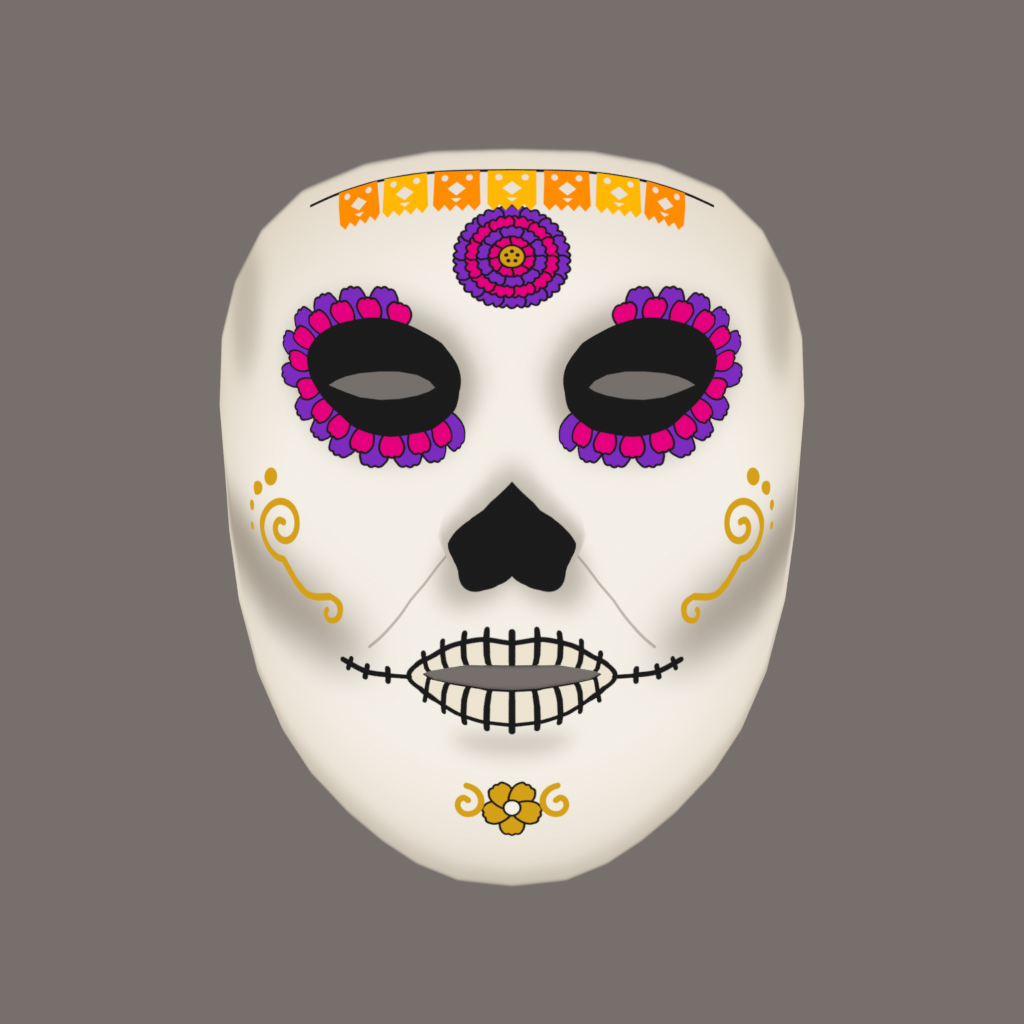
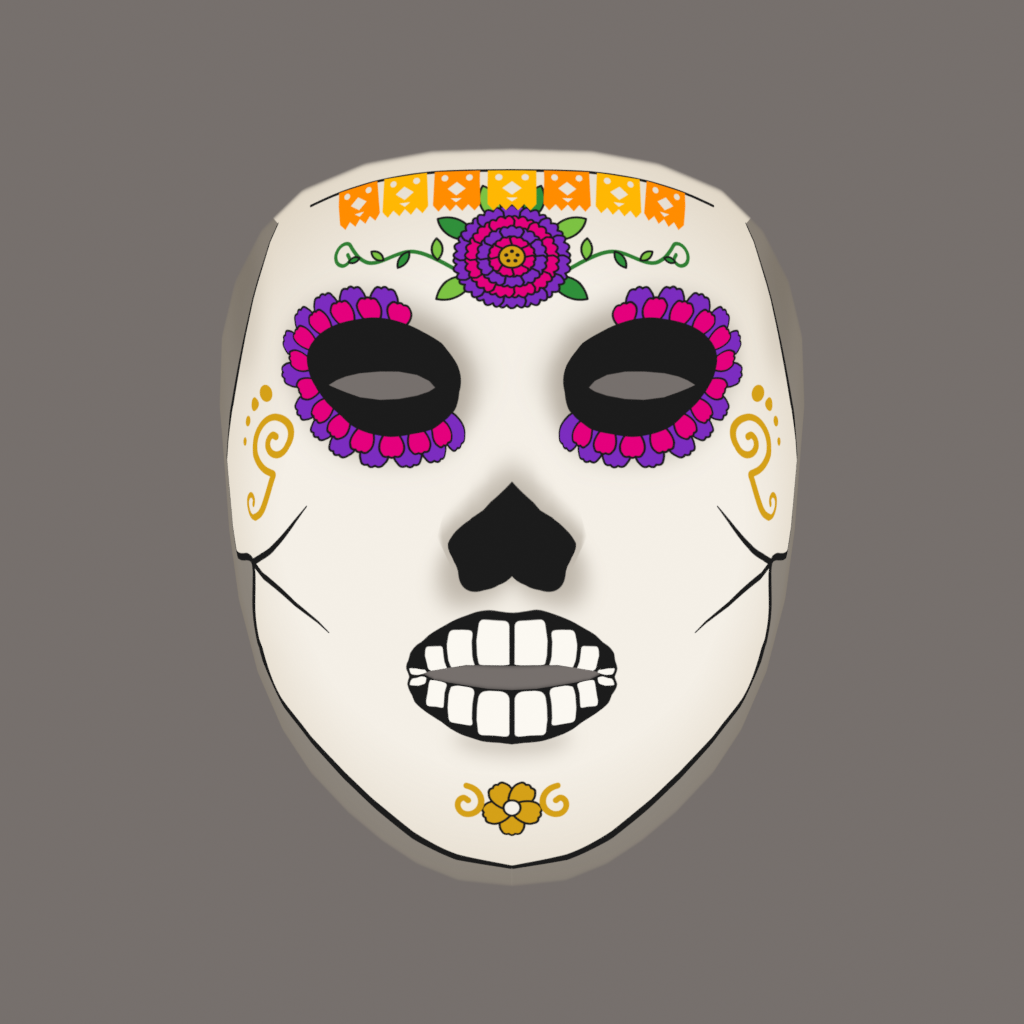
Diseño: estructura de cráneo (silueta, pómulos, mandíbula y dientes)
- Capa "craneo": silueta con pómulo saliente, muesca a la altura de la base
  de la nariz y mandíbula más angosta que la cara; lo que queda fuera del
  cráneo se oscurece. Líneas del cigomático y del maxilar con trazo que se
  adelgaza. Todo anclado al óvalo, la cuenca, la ceja, la nariz y la boca, y
  metido hacia el centro para que se lea de frente.
- Boca: dos filas de dientes redondeados (arriba en el labio superior, abajo en
  el inferior) sobre una encía negra.
- Frente: hojas detrás de la flor y enredaderas hacia las sienes.
- Volutas de las mejillas sobre el pómulo.

Changed region(s): [[0.1875, 0.2188, 0.8125, 0.875], [0.3125, 0.1875, 0.6875, 0.3125]]

diff --git a/tools/03_generate_svg.py b/tools/03_generate_svg.py
@@ -14,7 +14,7 @@ Simetría: los elementos se construyen con los landmarks del lado DERECHO de la 
 el lado izquierdo usa sus pares reflejados (Face.mirror).
 
 Capas (grupos con nombre, editables en Inkscape / Figma / Illustrator):
-    base, huesos (sombreado de cráneo), frente, mejillas, menton, nariz, boca, ojos, transparencias, referencia
+    base, huesos (sombreado), craneo (silueta y líneas óseas), frente, mejillas, menton, nariz, boca, ojos, transparencias, referencia
 `transparencias` marca en magenta los huecos exactos de ojos y boca: 04_rasterize.py los
 recorta del alfa. `referencia` (oculta) muestra la guía UV para retocar a mano.
 """
@@ -37,7 +37,10 @@ INK = "#1b1b1b"
 HOLE = "#ff00ff"  # marcador de la capa transparencias (no es color de la textura)
 BONE_EDGE = "#dcd1bf"   # hueso hacia los bordes (degradado de la base)
 SHADOW = "#7d7264"      # sombras de la capa huesos
-TOOTH = "#ece3d0"       # dientes
+TOOTH = "#fbf8f1"       # dientes (más claros que el hueso para que destaquen)
+HOLLOW = "#2b2520"      # hundimiento fuera de la mandíbula
+LEAF = ("#2f8f3a", "#7cc242")   # hojas (oscura, clara)
+VINE = "#2f7d32"
 
 PALETTES = {
     "calavera": {
@@ -63,14 +66,20 @@ PICADO = {"inset": 0.20, "cut": 0.42, "width": 0.36, "height": 0.34, "gap": 0.06
           "string": 0.022}
 MOUTH = {"line": 0.045, "teeth": 9, "tooth_ext": 0.13, "ext_len": 0.55, "ext_rise": 0.10,
          "ext_ticks": 3, "teeth_ext": 0.07}
-CHEEK = {"out": 0.32, "spiral": 0.27, "turns": 1.55, "stroke": 0.058, "dot": 0.072}
+CHEEK = {"out": 0.68, "spiral": 0.27, "turns": 1.55, "stroke": 0.058, "dot": 0.072}
 CHIN = {"at": 0.47, "petal": 0.22, "curl": 0.14, "stroke": 0.048}
 NOSE = {"width": 0.92, "drop": 0.04}
 # Sombreado óseo: (desenfoque en EW, opacidad). "teeth": dientes color hueso sobre los
 # labios (más calavera); False = labios oscuros.
-BONES = {"orbit": 0.16, "orbit_shade": (0.10, 0.55), "hollow_shade": (0.16, 0.65), "hollow_width": 0.30,
-         "temple_shade": (0.12, 0.30), "nose_shade": (0.07, 0.45), "jaw_shade": (0.12, 0.28),
-         "chin_shade": (0.07, 0.28), "line": 0.022, "line_opacity": 0.45, "teeth": True}
+BONES = {"orbit": 0.16, "orbit_shade": (0.10, 0.55), "temple_shade": (0.12, 0.15),
+         "nose_shade": (0.07, 0.45), "chin_shade": (0.07, 0.28), "teeth": True}
+# Estructura del cráneo (en EW): silueta con pómulo saliente, muesca y mandíbula más
+# angosta que la cara; "*_in" = cuánto entra la silueta desde el contorno de la cara.
+SKULL = {"outline": (0.01, 0.065, 0.05), "temple_in": 0.55, "cheek_in": 0.62, "jaw_in": 1.05,
+         "chin_in": 0.30, "hollow_opacity": 0.5, "line": (0.055, 0.008),
+         "zygo_len": 0.55, "maxilla_len": 0.62}
+TEETH = {"count": 8, "ext": 0.16, "gap": 0.035}
+VINES = {"leaves": 0.75, "leaf_w": 0.32, "stroke": 0.03}
 
 
 # ---------- Geometría ----------
@@ -179,6 +188,29 @@ def ruffled_ring_petal(r0, r1, half_angle):
     return "".join(d)
 
 
+def leaf_d(length, width):
+    """Hoja apuntando a +x con la base en el origen."""
+    L, W = length, width
+    return (f"M0,0C{0.30 * L:.1f},{-W:.1f} {0.72 * L:.1f},{-0.9 * W:.1f} {L:.1f},0"
+            f"C{0.72 * L:.1f},{0.9 * W:.1f} {0.30 * L:.1f},{W:.1f} 0,0Z")
+
+
+def profile(n, w0, wm, w1):
+    """Anchos a lo largo de un trazo: w0 al inicio, wm a la mitad, w1 al final."""
+    t = np.linspace(0, 1, n)
+    return w0 + (w1 - w0) * t + (wm - (w0 + w1) / 2) * 4 * t * (1 - t)
+
+
+def tapered_d(pts, widths):
+    """Trazo relleno de ancho variable (como pincel): se adelgaza donde `widths` es chico."""
+    P = np.asarray(pts, float)
+    w = np.asarray(widths, float)[:, None] / 2
+    t = np.gradient(P, axis=0)
+    t /= np.linalg.norm(t, axis=1, keepdims=True)
+    perp = np.stack([-t[:, 1], t[:, 0]], axis=1)
+    return bezier_d(np.vstack([P + perp * w, (P - perp * w)[::-1]]))
+
+
 def spiral_pts(center, r0, r1, a0, turns, sx, n=90):
     """Espiral de Arquímedes; sx = -1 la refleja para el lado opuesto."""
     s = np.linspace(0, 1, n)
@@ -264,6 +296,8 @@ class Design:
 
         P = face.px
         self.oval = catmull(P(face.oval), True, 16)
+        self.cx = float(P(face.nose_bridge)[:, 0].mean())   # eje de simetría
+        self._skull = {}
         lips = P(face.lips_outer)
         self.mouth_corner = {
             "right": face.lips_outer[int(lips[:, 0].argmin())],
@@ -274,6 +308,7 @@ class Design:
         svg = Svg()
         self.base(svg)
         self.bones(svg)
+        self.skull(svg)
         self.forehead(svg, pal)
         for side in self.sides:
             self.cheek(svg, pal, side)
@@ -326,49 +361,99 @@ class Design:
             return (f"M{c[0] - rx:.1f},{c[1]:.1f}a{rx:.1f},{ry:.1f} 0 1,0 {2 * rx:.1f},0"
                     f"a{rx:.1f},{ry:.1f} 0 1,0 {-2 * rx:.1f},0Z")
 
-        nos = P(face.nostrils)
         lips = P(face.lips_outer)
         for side in self.sides:
-            sx, n = side.sx, side.name
-            ex = np.array([sx * EW, 0.0])   # "hacia afuera" de ese lado
+            n = side.name
             ey = np.array([0.0, EW])        # hacia abajo
             sock = self.socket(side)
             # Órbita: sombra alrededor de la cuenca.
             shade(bezier_d(resample(sock + normals(sock) * B["orbit"] * EW, 32)), "orbit_shade", f"orbita-{n}")
-
-            # Pómulo: hundimiento bajo el arco cigomático, una banda diagonal difusa que baja
-            # desde cerca de la oreja hacia la comisura.
-            mouth = side.P(self.mouth_corner["right"])
-            below = sock[np.argmax(sx * sock[:, 0] + sock[:, 1])]       # abajo y afuera de la cuenca
-            ear = self.oval_at(side, lerp(below[1], mouth[1], 0.35)) - 0.15 * ex
-            near_mouth = mouth + 0.35 * ex - 0.10 * ey
-            c, axis = lerp(ear, near_mouth, 0.5), near_mouth - ear
-            half = np.linalg.norm(axis) / 2
-            blur, opacity = B["hollow_shade"]
-            svg.path("huesos", ellipse_d((0, 0), half, B["hollow_width"] * EW), fill=SHADOW,
-                     extra=f'id="pomulo-{n}" opacity="{opacity}" filter="url(#{svg.blur(blur * EW)})" '
-                           f'transform="{place(*c, math.atan2(axis[1], axis[0]))}"')
 
             # Sien: hundimiento junto al extremo de la ceja.
             brow_out = side.P(face.brow_upper["right"])[-1]
             c = lerp(brow_out, self.oval_at(side, brow_out[1]), 0.55) - 0.1 * ey
             shade(ellipse_d(c, 0.30 * EW, 0.55 * EW), "temple_shade", f"sien-{n}")
 
-            # Maxilar: de la aleta de la nariz hacia la comisura.
-            wing = nos[np.argmax(sx * nos[:, 0])]
-            line([wing + 0.06 * ex + 0.04 * ey, lerp(wing, mouth, 0.55) + 0.22 * ex,
-                  mouth + 0.30 * ex - 0.22 * ey], f"maxilar-{n}")
-
         # Cavidad nasal: sombra alrededor del corazón.
         shade(self.heart_d(1.3), "nose_shade", "cavidad-nasal")
-        # Mandíbula: banda a lo largo del óvalo, por debajo de la boca.
-        jaw = self.oval_arc(self.oval[:, 1] > lips[:, 1].mean())
-        blur, opacity = B["jaw_shade"]
-        svg.path("huesos", bezier_d(resample(jaw, 20, closed=False), closed=False), stroke=SHADOW,
-                 width=0.45 * EW, extra=f'id="mandibula" opacity="{opacity}" filter="url(#{svg.blur(blur * EW)})"')
         # Mentón: sombra bajo el labio inferior.
         c = np.array([lips[:, 0].mean(), lips[:, 1].max() + 0.20 * EW])
         shade(ellipse_d(c, 0.45 * EW, 0.12 * EW), "chin_shade", "menton-sombra")
+
+    # cráneo: silueta con pómulo saliente, muesca y mandíbula más angosta, hundimiento fuera
+    # de la mandíbula y líneas del cigomático y del maxilar
+    def skull_points(self, side):
+        """Puntos clave de la silueta de ese lado (px), anclados al óvalo, la cuenca, la
+        ceja, la nariz y la boca."""
+        if side.name in self._skull:
+            return self._skull[side.name]
+        face, EW, K = self.face, self.EW, SKULL
+        P = face.px
+        sx = side.sx
+        on = normals(self.oval)                                   # hacia afuera de la cara
+        mine = (self.oval[:, 0] - self.cx) * sx >= -1
+
+        def inset_at(y, d):
+            i = np.where(mine)[0][np.argmin(np.abs(self.oval[mine, 1] - y))]
+            return self.oval[i] - on[i] * d * EW
+
+        sock = self.socket(side)
+        brow_out = side.P(face.brow_upper["right"])[-1]
+        y_notch = P(face.nostrils)[:, 1].max() + 0.05 * EW        # muesca a la altura de la base de la nariz
+        top = inset_at(lerp(self.oval[:, 1].min(), brow_out[1], 0.35), 0.12)   # arranca pegada al borde
+        temple = inset_at(brow_out[1], K["temple_in"])
+        cheek = inset_at(sock[:, 1].max() + 0.25 * EW, K["cheek_in"])
+        cheek_low = inset_at(y_notch - 0.18 * EW, K["cheek_in"])
+
+        # Mandíbula: el óvalo hacia adentro, de jaw_in en la muesca a chin_in en el mentón.
+        idx = np.where(mine & (self.oval[:, 1] >= y_notch))[0]
+        idx = idx[np.argsort(self.oval[idx, 1])]
+        y_bot = self.oval[:, 1].max()
+        t = (self.oval[idx, 1] - y_notch) / (y_bot - y_notch)
+        inset = (K["jaw_in"] + (K["chin_in"] - K["jaw_in"]) * t ** 0.6) * EW
+        jaw = self.oval[idx] - on[idx] * inset[:, None]
+        jaw = np.vstack([resample(jaw, 8, closed=False), [[self.cx, y_bot - K["chin_in"] * EW]]])
+
+        outline = resample(catmull(np.vstack([[top, temple, cheek, cheek_low], jaw]), False, 10), 80, closed=False)
+        notch = jaw[0]
+        mouth = side.P(self.mouth_corner["right"])
+        under_eye = sock[np.argmax(sock[:, 1])] + np.array([0.0, 0.15 * EW])
+        self._skull[side.name] = pts = {
+            "outline": outline, "notch": notch, "cheek": cheek, "cheek_low": cheek_low,
+            "under_eye": under_eye, "mouth": mouth, "y_notch": y_notch,
+        }
+        return pts
+
+    def skull(self, svg):
+        EW, K = self.EW, SKULL
+        for side in self.sides:
+            sx, n = side.sx, side.name
+            S = self.skull_points(side)
+            outline = S["outline"]
+
+            # Fuera del cráneo: entre la silueta y el borde de la cara (hasta fuera de la isla).
+            inner = outline
+            mine = ((self.oval[:, 0] - self.cx) * sx >= -1) & (self.oval[:, 1] >= outline[0, 1])
+            outer = self.oval[mine]
+            outer = outer[np.argsort(outer[:, 1])] + normals(self.oval)[mine][np.argsort(outer[:, 1])] * 0.3 * EW
+            svg.path("craneo", poly_d(np.vstack([inner, outer[::-1]])), fill=HOLLOW,
+                     extra=f'id="hundimiento-{n}" opacity="{K["hollow_opacity"]}"')
+
+            w0, wm, w1 = K["outline"]
+            svg.path("craneo", tapered_d(outline, profile(len(outline), w0 * EW, wm * EW, w1 * EW)),
+                     fill=INK, extra=f'id="silueta-{n}"')
+
+            # Cigomático: de la muesca hacia abajo del ojo. Maxilar: de la muesca a la comisura.
+            a, b = K["line"]
+            for name, target, frac, bend in (
+                    ("cigomatico", S["under_eye"], K["zygo_len"], np.array([0.0, 0.10 * EW])),
+                    ("maxilar", S["mouth"] + np.array([sx * 0.08 * EW, 0.0]), K["maxilla_len"],
+                     np.array([sx * 0.06 * EW, -0.06 * EW]))):
+                end = lerp(S["notch"], target, frac)
+                curve = resample(catmull([S["notch"], lerp(S["notch"], end, 0.5) + bend, end], False, 16),
+                                 30, closed=False)
+                svg.path("craneo", tapered_d(curve, profile(30, a * EW, a * 0.8 * EW, b * EW)),
+                         fill=INK, extra=f'id="{name}-{n}"')
 
     # ojos: cuenca negra que sigue el contorno del ojo + anillo de pétalos
     def socket(self, side):
@@ -439,13 +524,9 @@ class Design:
         face, EW = self.face, self.EW
         P = face.px
         outer = P(face.lips_outer)
-        teeth_style = BONES["teeth"]
-        if teeth_style:
-            svg.path("boca", bezier_d(outer), fill=TOOTH, stroke=INK, width=0.035 * EW, extra='id="dientes-base"')
-            # Línea de la mordida: contorno interior de los labios.
-            svg.path("boca", bezier_d(P(face.lips_inner)), stroke=INK, width=0.04 * EW, extra='id="mordida"')
-        else:
-            svg.path("boca", bezier_d(outer), fill=INK, extra='id="labios"')
+        if BONES["teeth"]:
+            return self.teeth(svg)
+        svg.path("boca", bezier_d(outer), fill=INK, extra='id="labios"')
 
         # Contorno exterior partido en labio superior e inferior (de comisura a comisura).
         loop = list(face.lips_outer)
@@ -456,7 +537,7 @@ class Design:
         upper, lower = upper[np.argsort(upper[:, 0])], lower[np.argsort(lower[:, 0])]
         x0, x1 = outer[:, 0].min(), outer[:, 0].max()
         width = MOUTH["line"] * EW
-        ext = (MOUTH["teeth_ext"] if teeth_style else MOUTH["tooth_ext"]) * EW
+        ext = MOUTH["tooth_ext"] * EW
         teeth = []
         for t in np.linspace(0, 1, MOUTH["teeth"] + 2)[1:-1]:
             x = x0 + (x1 - x0) * t
@@ -482,6 +563,63 @@ class Design:
                 teeth.append(f"M{f(p + n * h)}L{f(p - n * h)}")
         svg.path("boca", "".join(teeth), stroke=INK, width=width, extra='id="dientes"')
 
+    def lip_curves(self, loop):
+        """Parte un contorno de labios en mitad superior e inferior, ordenadas por x."""
+        P = self.face.px
+        pts = P(loop)
+        i0, i1 = int(pts[:, 0].argmin()), int(pts[:, 0].argmax())
+        lo, hi = sorted((i0, i1))
+        a = pts[lo:hi + 1]
+        b = np.vstack([pts[hi:], pts[:lo + 1]])
+        upper, lower = (a, b) if a[:, 1].mean() < b[:, 1].mean() else (b, a)
+        return upper[np.argsort(upper[:, 0])], lower[np.argsort(lower[:, 0])]
+
+    def teeth(self, svg):
+        """Dos filas de dientes: los de arriba van del labio superior a la mordida y los de
+        abajo de la mordida al labio inferior, así se separan al abrir la boca."""
+        face, EW, T = self.face, self.EW, TEETH
+        up_o, lo_o = self.lip_curves(face.lips_outer)
+        up_i, lo_i = self.lip_curves(face.lips_inner)
+        x0, x1 = up_o[0, 0], up_o[-1, 0]
+        ext, gap = T["ext"] * EW, T["gap"] * EW
+
+        def at(curve, x):
+            return np.interp(x, curve[:, 0], curve[:, 1])
+
+        def top(x):      # borde superior de los dientes de arriba (sobre el labio)
+            return at(up_o, x) - ext * (1 - 0.5 * ((x - (x0 + x1) / 2) / ((x1 - x0) / 2)) ** 2)
+
+        def bottom(x):   # borde inferior de los dientes de abajo
+            return at(lo_o, x) + ext * (1 - 0.5 * ((x - (x0 + x1) / 2) / ((x1 - x0) / 2)) ** 2)
+
+        xs = np.linspace(x0, x1, 40)
+        back = np.vstack([np.stack([xs, top(xs) - gap], 1), np.stack([xs[::-1], bottom(xs[::-1]) + gap], 1)])
+        svg.path("boca", bezier_d(resample(back, 48)), fill=INK, extra='id="encias"')
+
+        # Anchos: más grandes al centro, más chicos hacia las comisuras.
+        k = (np.arange(T["count"]) + 0.5) / T["count"]
+        w = 1 - 0.45 * np.abs(2 * k - 1)
+        edges = x0 + (x1 - x0) * np.concatenate([[0], np.cumsum(w) / w.sum()])
+        def tooth(xa, xb, ya, yb, round_out):
+            """Diente entre xa..xb; ya = borde hacia el labio, yb = borde de la mordida."""
+            w, h = xb - xa, abs(yb - ya)
+            r = min(0.35 * w, 0.4 * h)
+            ro = r if round_out else r * 0.5      # el borde de la encía, menos redondeado
+            sy = 1 if yb > ya else -1             # de arriba hacia abajo o al revés
+            return (f"M{xa:.1f},{ya + sy * ro:.1f}Q{xa:.1f},{ya:.1f} {xa + ro:.1f},{ya:.1f}"
+                    f"L{xb - ro:.1f},{ya:.1f}Q{xb:.1f},{ya:.1f} {xb:.1f},{ya + sy * ro:.1f}"
+                    f"L{xb:.1f},{yb - sy * r:.1f}Q{xb:.1f},{yb:.1f} {xb - r:.1f},{yb:.1f}"
+                    f"L{xa + r:.1f},{yb:.1f}Q{xa:.1f},{yb:.1f} {xa:.1f},{yb - sy * r:.1f}Z")
+
+        teeth = []
+        for xa, xb in zip(edges[:-1], edges[1:]):
+            xa, xb = xa + gap / 2, xb - gap / 2
+            xm = np.array([xa, (xa + xb) / 2, xb])
+            # Arriba: del labio superior a la mordida; abajo: de la mordida al labio inferior.
+            teeth.append(tooth(xa, xb, top(xm).max() + gap / 2, at(up_i, xm).min() - gap / 2, False))
+            teeth.append(tooth(xa, xb, bottom(xm).min() - gap / 2, at(lo_i, xm).max() + gap / 2, False))
+        svg.path("boca", "".join(teeth), fill=TOOTH, extra='id="dientes"')
+
     # frente: flor de cempasúchil al centro y papel picado arriba
     def forehead(self, svg, pal):
         face, EW = self.face, self.EW
@@ -490,8 +628,37 @@ class Design:
         oval_top = self.oval[:, 1].min()
         cx = P(face.nose_bridge)[:, 0].mean()
         cy = lerp(brow_top, oval_top, FLOWER["rise"])
+        self.vines(svg, (cx, float(cy)), FLOWER["radius"] * EW)
         self.marigold(svg, "frente", pal, (cx, float(cy)), FLOWER["radius"] * EW, "flor-frente")
         self.papel_picado(svg, pal, oval_top, brow_top)
+
+    def vines(self, svg, c, R):
+        """Hojas detrás de la flor y una enredadera hacia cada sien, con hojas y un rizo."""
+        EW, V = self.EW, VINES
+        c = np.asarray(c, float)
+        g = [f'<g id="hojas-frente" stroke="{INK}" stroke-width="{OUTLINE * EW:.1f}" stroke-linejoin="round">']
+        for j, deg in enumerate((-150, -110, -70, -30, 30, 150)):
+            a = math.radians(deg)
+            base = c + 0.75 * R * np.array([math.cos(a), math.sin(a)])
+            g.append(f'  <path d="{leaf_d(0.75 * R, 0.24 * R)}" fill="{LEAF[j % 2]}" transform="{place(*base, a)}"/>')
+        for sx, n in ((-1, "right"), (1, "left")):
+            ctrl = [c + R * np.array([sx * x, y]) for x, y in ((0.9, 0.25), (1.7, -0.15), (2.5, 0.05), (3.0, -0.35))]
+            stem = resample(catmull(ctrl, False, 16), 40, closed=False)
+            end = stem[-1]
+            curl = spiral_pts(end + np.array([0, 0.28 * R]), 0.28 * R, 0.06 * R, -math.pi / 2, 0.9 * sx, 1, 30)
+            svg.path("frente", bezier_d(resample(np.vstack([stem, curl[1:]]), 24, closed=False), closed=False),
+                     stroke=VINE, width=V["stroke"] * EW, extra=f'id="enredadera-{n}"')
+            tang = np.gradient(stem, axis=0)
+            for k, t in enumerate((0.2, 0.42, 0.64, 0.84)):
+                i = int(t * (len(stem) - 1))
+                tx, ty = tang[i] / np.linalg.norm(tang[i])
+                up = 1 if k % 2 else -1
+                a = math.atan2(ty, tx) + up * math.radians(55) * sx
+                L = V["leaves"] * R * (0.55 - 0.08 * k)
+                g.append(f'  <path d="{leaf_d(L, L * V["leaf_w"])}" fill="{LEAF[(k + 1) % 2]}" '
+                         f'transform="{place(*stem[i], a)}"/>')
+        g.append("</g>")
+        svg.add("frente", "\n    ".join(g))
 
     def marigold(self, svg, layer, pal, c, R, name):
         rings = [(1.00, 14, "petal_a"), (0.80, 12, "petal_b"), (0.60, 10, "petal_a"), (0.40, 8, "petal_b")]
@@ -566,20 +733,17 @@ class Design:
     # mejillas: voluta en espiral con cola hacia la boca y puntos decorativos
     def cheek(self, svg, pal, side):
         face, EW = self.face, self.EW
-        eye = side.P(face.eye["right"])
-        eye_outer = eye[np.argmin(side.sx * -eye[:, 0])]      # comisura externa del ojo
-        mouth = side.P(self.mouth_corner["right"])
-        mid = lerp(eye_outer, mouth, 0.5)
-        oval = self.oval[(self.oval[:, 0] - SIZE / 2) * side.sx > 0]
-        edge = oval[np.argmin(np.abs(oval[:, 1] - mid[1]))]
-        c = lerp(mid, edge, CHEEK["out"])
+        S = self.skull_points(side)
+        sock = self.socket(side)
+        sock_out = sock[np.argmax(side.sx * sock[:, 0] + sock[:, 1])]   # abajo y afuera de la cuenca
+        c = lerp(S["cheek"], sock_out, CHEEK["out"]) + np.array([0.0, 0.15 * EW])
 
         r1 = CHEEK["spiral"] * EW
         turns = CHEEK["turns"]
         a_end = math.pi / 2                                   # termina abajo...
         spiral = spiral_pts(c, 0.12 * r1, r1, a_end - 2 * math.pi * turns, turns, side.sx)
         end = spiral[-1]
-        tail_end = lerp(c, mouth, 0.42) + np.array([0, 0.25 * r1])   # ...y la cola sigue hacia la boca
+        tail_end = lerp(c, S["notch"], 0.62)                          # ...y la cola baja hacia la muesca
         tail = catmull([end, lerp(end, tail_end, 0.5) + np.array([0, 0.45 * r1]), tail_end],
                        closed=False, n=16)
         curve = np.vstack([spiral, tail[1:]])
@@ -632,7 +796,7 @@ class Design:
         svg.path("transparencias", poly_d(P(self.face.lips_inner)), fill=HOLE, extra='id="hueco-boca"')
 
 
-LAYERS = ["base", "huesos", "frente", "mejillas", "menton", "nariz", "boca", "ojos", "transparencias", "referencia"]
+LAYERS = ["base", "huesos", "craneo", "frente", "mejillas", "menton", "nariz", "boca", "ojos", "transparencias", "referencia"]
 
 
 def preview(paths, out, size=1024, bg=(92, 78, 70)):

diff --git a/README.md b/README.md
@@ -50,7 +50,7 @@ Plantilla UV → guía de rasgos → SVG anclado a landmarks → rasterizado →
 
 Los contornos de los rasgos salen de los conjuntos oficiales de conexiones de MediaPipe
 (`FaceLandmarksConnections`), no de índices escritos a mano. El SVG está organizado en capas
-con nombre (`base`, `huesos`, `frente`, `mejillas`, `menton`, `nariz`, `boca`, `ojos`,
+con nombre (`base`, `huesos`, `craneo`, `frente`, `mejillas`, `menton`, `nariz`, `boca`, `ojos`,
 `transparencias`) para retocarlo en Inkscape, Figma o Illustrator.
 
 ![Guía UV](assets/face/uv_guide.png)
